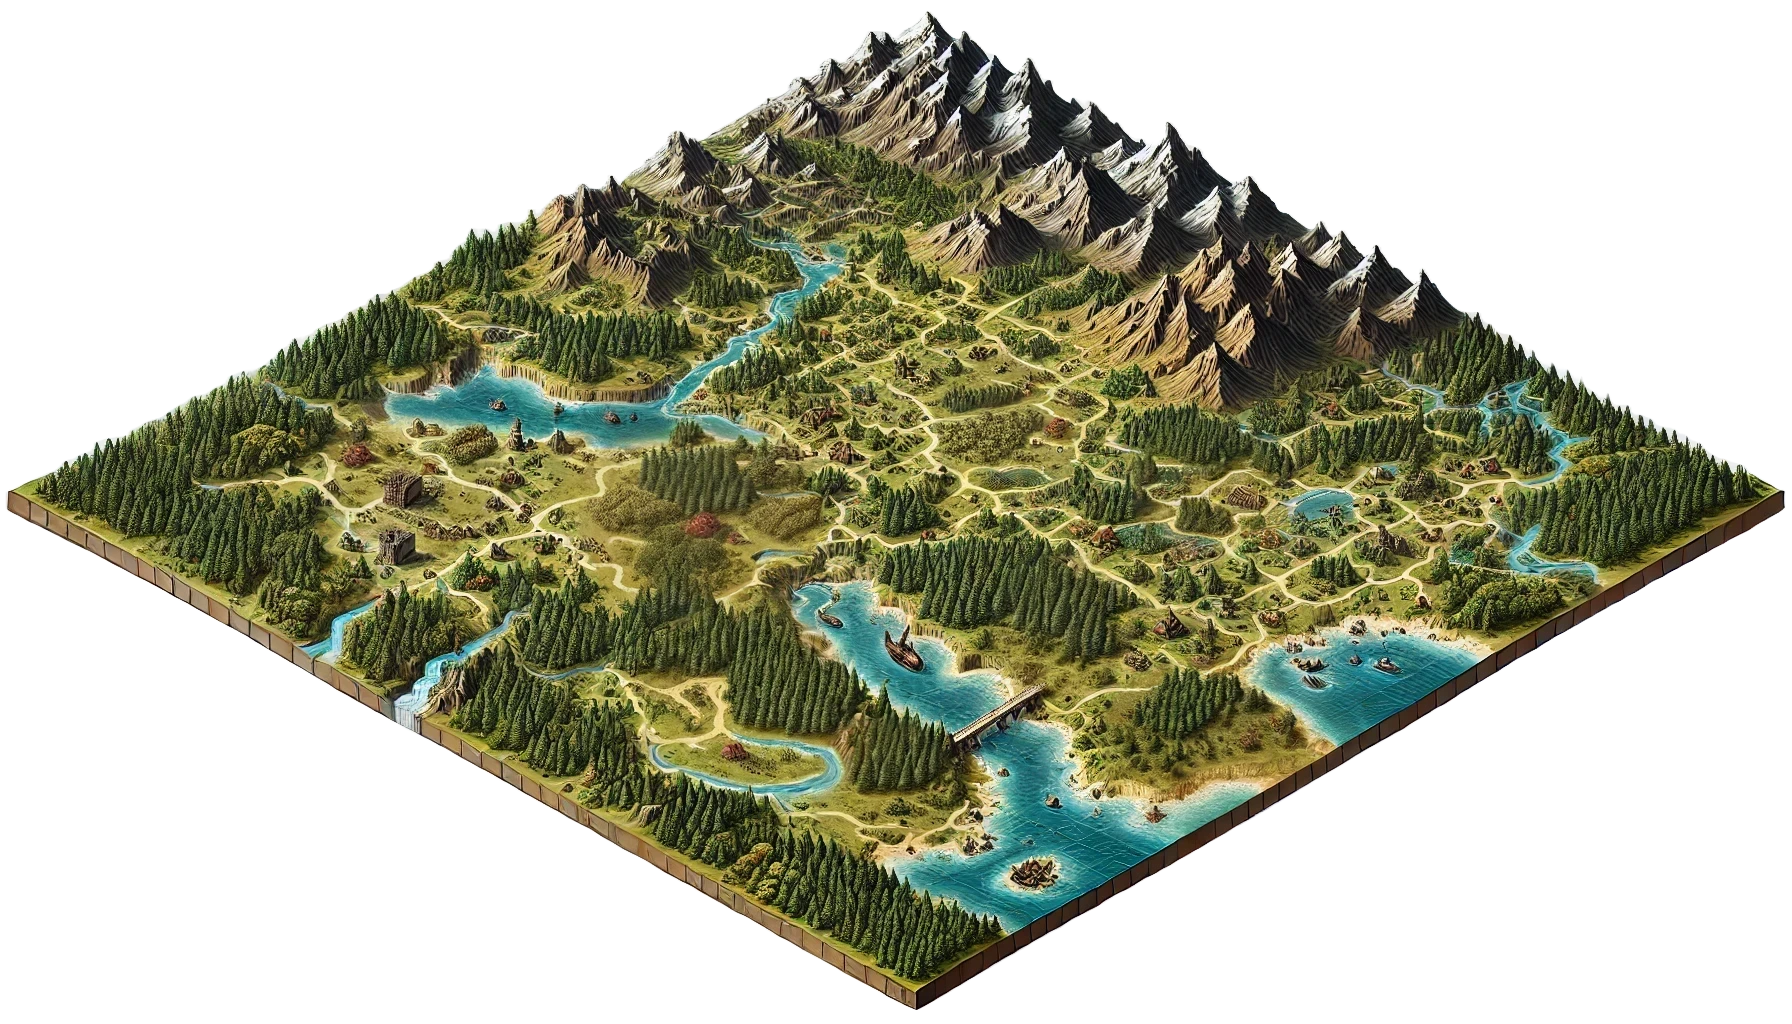
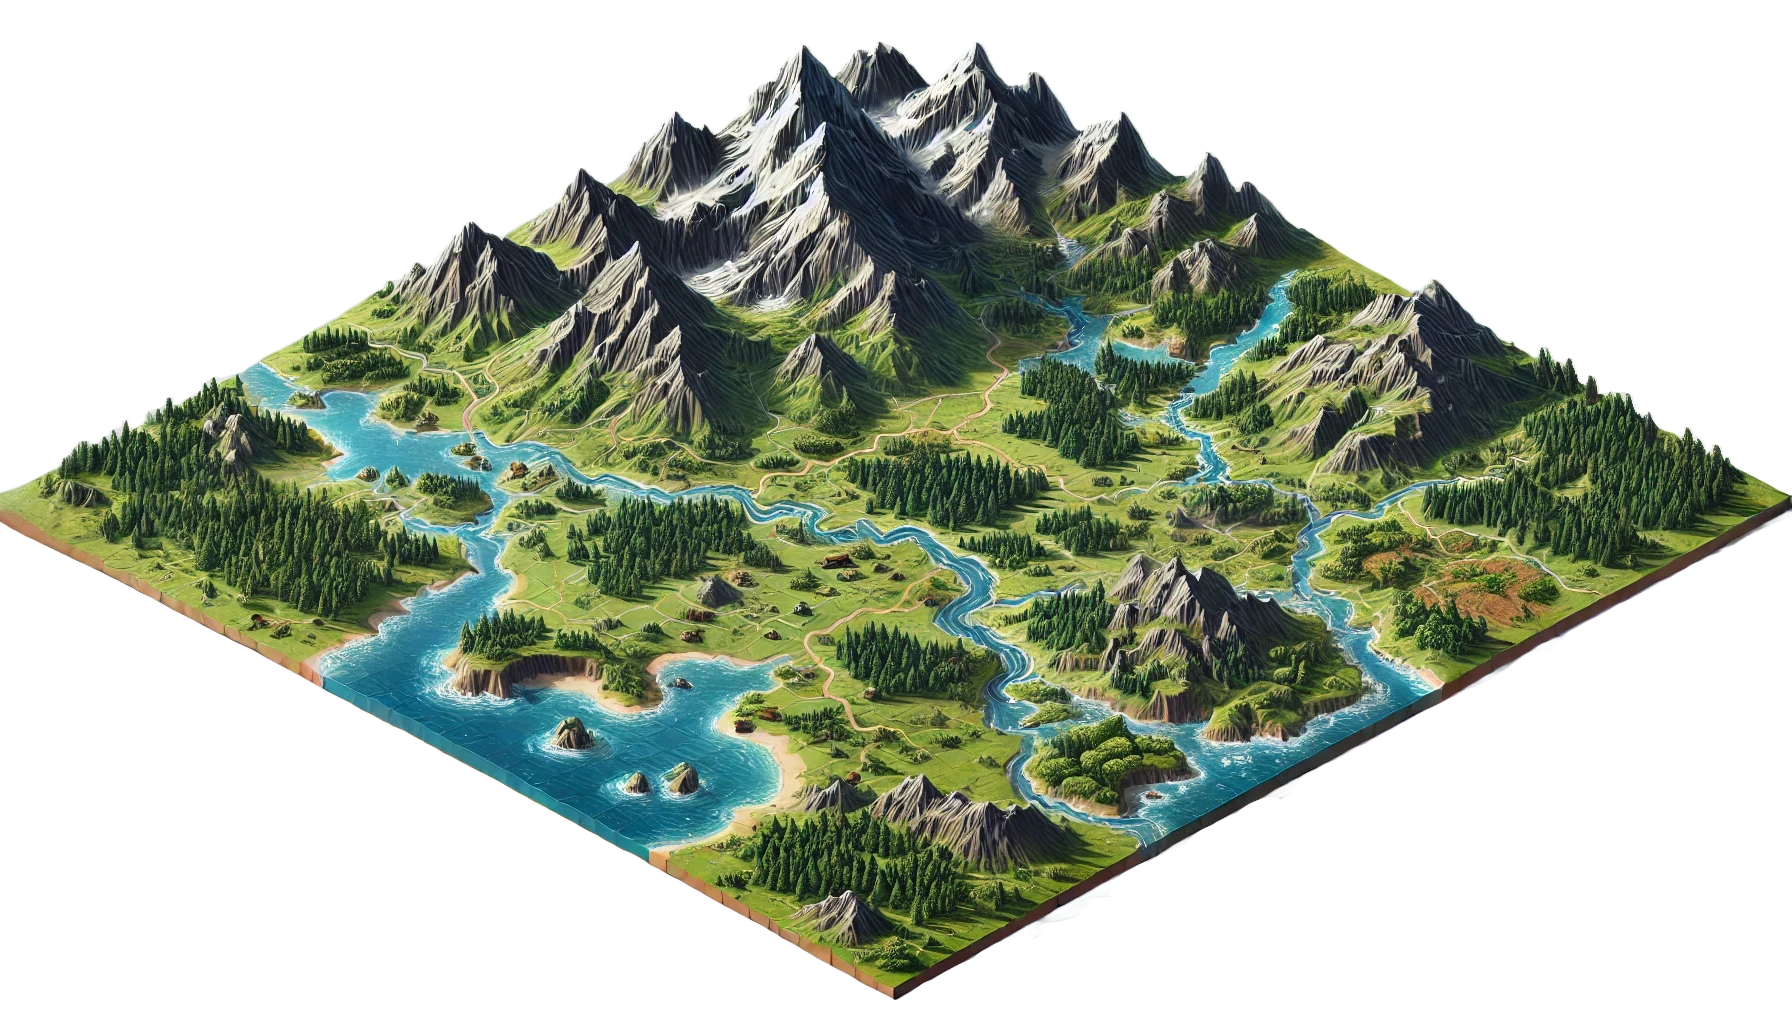
18 October 2024

diff --git a/src/yedek.js b/src/yedek.js
@@ -3,6 +3,7 @@ import Phaser from 'phaser';
 import grassImage from './assets/grass.png';
 import whiteflagImage from './assets/whiteFlag.png';
 import skyflagImage from './assets/skyFlag.png';
+import largemapImage from './assets/file.png';
 import getContract, { getSignerContract } from './contract';
 import { Circles } from 'react-loader-spinner';
 import './App.css';
@@ -377,11 +378,18 @@ function App() {
       this.load.image('grass', grassImage);
       this.load.image('whiteflag', whiteflagImage);
       this.load.image('skyflag', skyflagImage);
+      this.load.image('largemap', largemapImage);
+      
     }
 
     
 
     async function create() {
+
+      const mapImage = this.add.image((window.innerWidth / 2) - 80, (window.innerHeight * 2) + 190, 'largemap');
+    mapImage.setDisplaySize(8400, 4400); // Set the map image size
+
+
       const tileWidth = 386;
       const visibleTileHeight = 193;
       const overlap = visibleTileHeight / 2;
@@ -416,10 +424,14 @@ function App() {
         for (let x = 0; x < mapSize; x++) {
           const { worldX, worldY } = tileToWorldPosition(x, y);
 
-          const tile = this.add.image(worldX, worldY, 'grass').setDepth(worldY);
-          tile.setPipeline('Light2D');
+          this.add.image(worldX, worldY, 'grass').setDepth(worldY);
+          
+          // const tile = this.add.image(worldX, worldY, 'grass').setDepth(worldY);
+          // tile.setPipeline('Light2D');
         }
       }
+
+      
 
       this.cameras.main.setZoom(zoomLevel);
       const mapCenterY = totalMapHeight / 2;
@@ -471,9 +483,9 @@ function App() {
 
       this.input.on('wheel', (pointer, gameObjects, deltaX, deltaY, deltaZ) => {
         if (deltaY > 0) {
-          zoomLevel = Phaser.Math.Clamp(zoomLevel - 0.04, 0.24, 1);
+          zoomLevel = Phaser.Math.Clamp(zoomLevel - 0.04, 0.24, 0.4);
         } else {
-          zoomLevel = Phaser.Math.Clamp(zoomLevel + 0.04, 0.24, 1);
+          zoomLevel = Phaser.Math.Clamp(zoomLevel + 0.04, 0.24, 0.4);
         }
         this.cameras.main.setZoom(zoomLevel);
       });

diff --git a/src/App.js b/src/App.js
@@ -1,6 +1,7 @@
 import React, { useEffect, useRef, useState, useCallback } from 'react';
 import Phaser from 'phaser';
 import grassImage from './assets/grass.png';
+import oceanImage from './assets/ocean.png';
 import whiteflagImage from './assets/whiteFlag.png';
 import skyflagImage from './assets/skyFlag.png';
 import largemapImage from './assets/file.png';
@@ -376,6 +377,7 @@ function App() {
 
     function preload() {
       this.load.image('grass', grassImage);
+      this.load.image('ocean', oceanImage);
       this.load.image('whiteflag', whiteflagImage);
       this.load.image('skyflag', skyflagImage);
       this.load.image('largemap', largemapImage);
@@ -386,8 +388,12 @@ function App() {
 
     async function create() {
 
-      const mapImage = this.add.image((window.innerWidth / 2) - 80, (window.innerHeight * 2) + 190, 'largemap');
-    mapImage.setDisplaySize(8400, 4400); // Set the map image size
+
+       // const oceanImage = this.add.image((window.innerWidth / 2) - 80, (window.innerHeight * 2) + 190, 'ocean');
+        //  oceanImage.setDisplaySize(19200, 10800); // Set the map image size
+
+       const mapImage = this.add.image((window.innerWidth / 2) , (window.innerHeight * 2) + 150, 'largemap');
+     mapImage.setDisplaySize(8000, 4600); // Set the map image size
 
 
       const tileWidth = 386;
@@ -420,6 +426,13 @@ function App() {
         return { x, y };
       }
 
+
+
+
+      
+
+
+
       for (let y = 0; y < mapSize; y++) {
         for (let x = 0; x < mapSize; x++) {
           const { worldX, worldY } = tileToWorldPosition(x, y);
@@ -430,6 +443,19 @@ function App() {
           // tile.setPipeline('Light2D');
         }
       }
+
+
+
+
+     
+
+          
+          
+
+
+     
+
+
 
       
 
